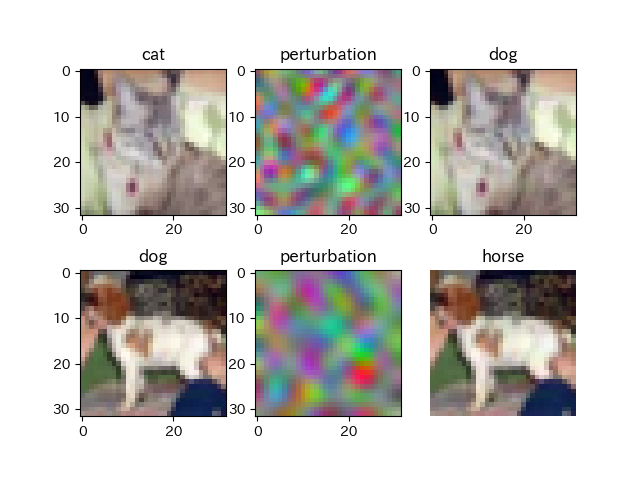
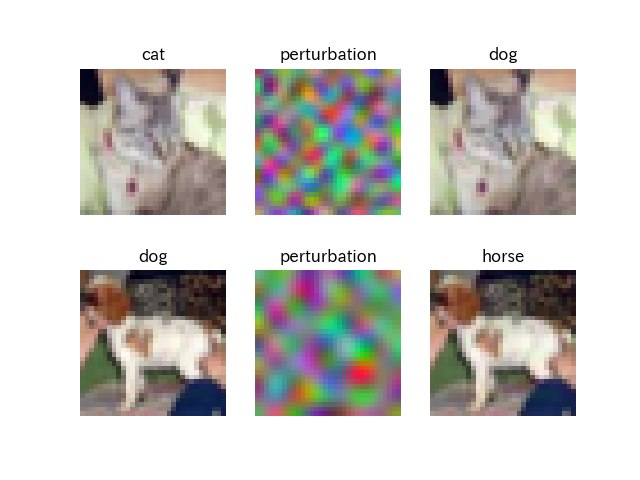
update

diff --git a/run_demo_simba_single.py b/run_demo_simba_single.py
@@ -83,13 +83,13 @@ for i in range(len(idx_sample_imgs)):
 
     logger.info('Plot the orignail image, perturbation, and adversarial image')
     ax[i][0].imshow(norm(x_test[i]))
-    plt.axis('off')
+    ax[i][0].axis('off')
     ax[i][0].set_title(label[np.argmax(y_test[i])])
     ax[i][1].imshow(norm(x_test_adv[0] - x_test[i]))
-    plt.axis('off')
+    ax[i][1].axis('off')
     ax[i][1].set_title("perturbation")
     ax[i][2].imshow(norm(x_test_adv[0]))
-    plt.axis('off')
+    ax[i][2].axis('off')
     ax[i][2].set_title(label[preds_adv[0]])
 
 plt.savefig('plot_simba_demo.png')
